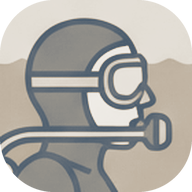
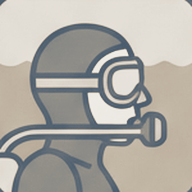
proto v3: 아이콘 그림 크기 원복(9px), 모서리는 CSS 한 번만 잘라 지글거림 제거
Claude-Session: https://claude.ai/code/session_012p9REnXPvjp6fop7YDYTha

diff --git a/proto/v3.html b/proto/v3.html
@@ -116,10 +116,10 @@ h2{font-family:var(--serif);font-weight:400;font-size:clamp(22px,3vw,30px);lette
 .app[hidden]{display:none}
 .app .ic{width:64px;height:64px;border-radius:15px;background:var(--deep);color:#e9e4da;display:grid;place-items:center;font-family:var(--serif);font-size:20px;overflow:hidden}
 .app .ic img{width:100%;height:100%;object-fit:cover}
-/* 선 그림 PNG는 모서리가 투명(반경 28%) → 틀 바탕은 투명, 틀 반경도 28%로 맞춤 */
-.app .ic{background:transparent;border-radius:28%}
-.drop>*{background:transparent;border-radius:28%!important}
-@media (max-width:640px){.app .ic{border-radius:28%}}
+/* 선 그림 PNG는 네모 그대로, 둥근 모서리는 여기서 한 번만 자름(틀 바탕 투명) */
+.app .ic{background:transparent;border-radius:22%;overflow:hidden}
+.drop>*{background:transparent;border-radius:22%!important;overflow:hidden!important}
+.drop>* img{border-radius:0!important}
 /* 아이콘: 높이 떠 있는 듯한 연한 그림자 */
 .app .ic{box-shadow:0 28px 36px -14px rgba(31,47,61,.85),0 10px 16px -6px rgba(31,47,61,.35)}
 .app .nm{font-family:var(--serif);font-size:18px}
@@ -358,11 +358,11 @@ body.at-top .dropzone{display:block}
 <!-- 첫 화면: 상단 가운데에 마우스를 올리거나 화면을 터치하면 앱 아이콘이 위에서 내려옴 -->
 <div class="dropzone" id="dz" aria-hidden="true"></div>
 <nav class="drop" id="drop" aria-label="Apps">
-  <span data-label="Used to read numbers" data-bg="hov-money" data-pop="popMoney" role="button" tabindex="0"><img src="v3/moneypie-line.png?v=3" alt="Used to read numbers"></span>
-  <span data-label="Used at sea" data-bg="hov-dtmd" data-pop="popDtmd" role="button" tabindex="0"><img src="v3/dtmd-line.png?v=3" alt="Used at sea"></span>
-  <span data-label="Used back on land" data-bg="hov-dtme" data-pop="dtmeOv" role="button" tabindex="0"><img src="v3/dtme-line.png?v=3" alt="Used back on land"></span>
-  <span data-label="Used to compose" data-bg="hov-dtmc" data-pop="popDtmc" role="button" tabindex="0"><img src="v3/dtmc-line.png?v=3" alt="Used to compose"></span>
-  <span data-label="Used to touch up" data-bg="hov-mosco" data-pop="popMosco" role="button" tabindex="0"><img src="v3/mosco-line.png?v=3" alt="Used to touch up"></span>
+  <span data-label="Used to read numbers" data-bg="hov-money" data-pop="popMoney" role="button" tabindex="0"><img src="v3/moneypie-line.png?v=4" alt="Used to read numbers"></span>
+  <span data-label="Used at sea" data-bg="hov-dtmd" data-pop="popDtmd" role="button" tabindex="0"><img src="v3/dtmd-line.png?v=4" alt="Used at sea"></span>
+  <span data-label="Used back on land" data-bg="hov-dtme" data-pop="dtmeOv" role="button" tabindex="0"><img src="v3/dtme-line.png?v=4" alt="Used back on land"></span>
+  <span data-label="Used to compose" data-bg="hov-dtmc" data-pop="popDtmc" role="button" tabindex="0"><img src="v3/dtmc-line.png?v=4" alt="Used to compose"></span>
+  <span data-label="Used to touch up" data-bg="hov-mosco" data-pop="popMosco" role="button" tabindex="0"><img src="v3/mosco-line.png?v=4" alt="Used to touch up"></span>
 </nav>
 <div class="drop-lbl" id="dropLbl" aria-hidden="true"><span></span><span></span></div>
 
@@ -395,15 +395,15 @@ body.at-top .dropzone{display:block}
 <section class="blk panel sheet" id="apps"><div class="w" data-speed="1.35">
   <h2 class="reveal">Apps</h2>
   <ul class="apps">
-    <li class="app reveal"><button class="row" type="button" data-pop="popMoney"><div class="ic"><img src="v3/moneypie-line.png?v=3" alt="" loading="lazy"></div>
+    <li class="app reveal"><button class="row" type="button" data-pop="popMoney"><div class="ic"><img src="v3/moneypie-line.png?v=4" alt="" loading="lazy"></div>
       <div><p class="nm">Used to read numbers</p></div><span class="ar">→</span></button></li>
-    <li class="app reveal"><button class="row" type="button" data-pop="popDtmd"><div class="ic"><img src="v3/dtmd-line.png?v=3" alt="" loading="lazy"></div>
+    <li class="app reveal"><button class="row" type="button" data-pop="popDtmd"><div class="ic"><img src="v3/dtmd-line.png?v=4" alt="" loading="lazy"></div>
       <div><p class="nm">Used at sea</p></div><span class="ar">→</span></button></li>
-    <li class="app reveal"><button class="row" type="button" data-pop="dtmeOv"><div class="ic"><img src="v3/dtme-line.png?v=3" alt="" loading="lazy"></div>
+    <li class="app reveal"><button class="row" type="button" data-pop="dtmeOv"><div class="ic"><img src="v3/dtme-line.png?v=4" alt="" loading="lazy"></div>
       <div><p class="nm">Used back on land</p></div><span class="ar">→</span></button></li>
-    <li class="app reveal"><button class="row" type="button" data-pop="popDtmc"><div class="ic"><img src="v3/dtmc-line.png?v=3" alt="" loading="lazy"></div>
+    <li class="app reveal"><button class="row" type="button" data-pop="popDtmc"><div class="ic"><img src="v3/dtmc-line.png?v=4" alt="" loading="lazy"></div>
       <div><p class="nm">Used to compose</p></div><span class="ar">→</span></button></li>
-    <li class="app reveal"><button class="row" type="button" data-pop="popMosco"><div class="ic"><img src="v3/mosco-line.png?v=3" alt="" loading="lazy"></div>
+    <li class="app reveal"><button class="row" type="button" data-pop="popMosco"><div class="ic"><img src="v3/mosco-line.png?v=4" alt="" loading="lazy"></div>
       <div><p class="nm">Used to touch up</p></div><span class="ar">→</span></button></li>
   </ul>
 </div></section>

diff --git a/proto/HANDOFF.md b/proto/HANDOFF.md
@@ -11,7 +11,7 @@
 - 배포 확인: push 후 `sync.yml`을 workflow_dispatch로 실행하면 1~2분 안에 반영.
 
 ## v3 현재 구성 (위→아래)
-**아이콘 2026-11-19 교체**: 실사 명암 아이콘(*-duo.webp, 파일은 남겨 둠) → 선 그림 아이콘 *-line.png(192×192, 투명 둥근 사각형, 반경 28% — 아이콘 틀(.app .ic, .drop>*)도 반경 28%·바탕 투명으로 맞춤, 캐시 ?v=3). 출처: 사용자가 준 색 타일 5개 그림(Gemini)에서 테두리 안쪽(14px, 원본 테두리 6~7px + 둥근 모서리 여유)을 잘라 명암만 남김 → 선 #4a5c6e, 바탕 #b9ab98~#f4f2ee. 모든 바탕을 같은 밝기(0.86)로 통일. 다이버 물결선(높이 약 61px, 주기 약 36.5px 사인)을 측정해 물고기에도 같은 수면선·물색(0.56) 적용, 물고기 몸 안은 밝게. 그림: 머니파이=동전, DTMD=다이버, DTME=물고기, DTMC=음표, MOSCO=화장대.
+**아이콘 2026-11-19 교체**: 실사 명암 아이콘(*-duo.webp, 파일은 남겨 둠) → 선 그림 아이콘 *-line.png(192×192 네모 PNG, 둥근 모서리는 CSS에서 한 번만: .app .ic·.drop>* border-radius 22%·overflow hidden·바탕 투명 — PNG와 CSS가 두 번 자르면 모서리에 남색 실선이 생겨 지글거렸음, 캐시 ?v=4)도 반경 28%·바탕 투명으로 맞춤, 캐시 ?v=3). 출처: 사용자가 준 색 타일 5개 그림(Gemini)에서 테두리 안쪽 9px을 잘라(원본 테두리 6~7px, 모서리까지 깨끗함 확인) 명암만 남김 → 선 #4a5c6e, 바탕 #b9ab98~#f4f2ee. 모든 바탕을 같은 밝기(0.86)로 통일. 다이버 물결선(높이 약 61px, 주기 약 36.5px 사인)을 측정해 물고기에도 같은 수면선·물색(0.56) 적용, 물고기 몸 안은 밝게. 그림: 머니파이=동전, DTMD=다이버, DTME=물고기, DTMC=음표, MOSCO=화장대.
 **언어: 2026-11-16 홈페이지 전체를 영어로 전환**(lang=en). 앱 설명 = Used to read numbers(머니파이) / Used at sea(DTMD) / Used back on land(DTME) / Used to touch up(MOSCO). 소개 = "Things I made for my own use." 메뉴 = Apps · Contact. DTME 팝업도 영문(편집 창 글자 9px로 줄여 넘침 방지). 아래 항목의 한글 문구는 영문 전환 전 기록.
 1. 첫 화면: 임시 그림 3장(g1 수평선·g3 산·g4 해질녘) 8초마다 크로스페이드 + 천천히 확대(다음 그림이 1초 먼저 움직이고, 나가는 그림은 움직이며 사라짐 — 툭툭 걸림 해결). 글자 없음. 진행 표시줄만.
    - 숨은 입력: 첫 화면에서 키보드로 ART 또는 IZO → https://kangizo.com (폰은 키보드가 없어 미동작)
